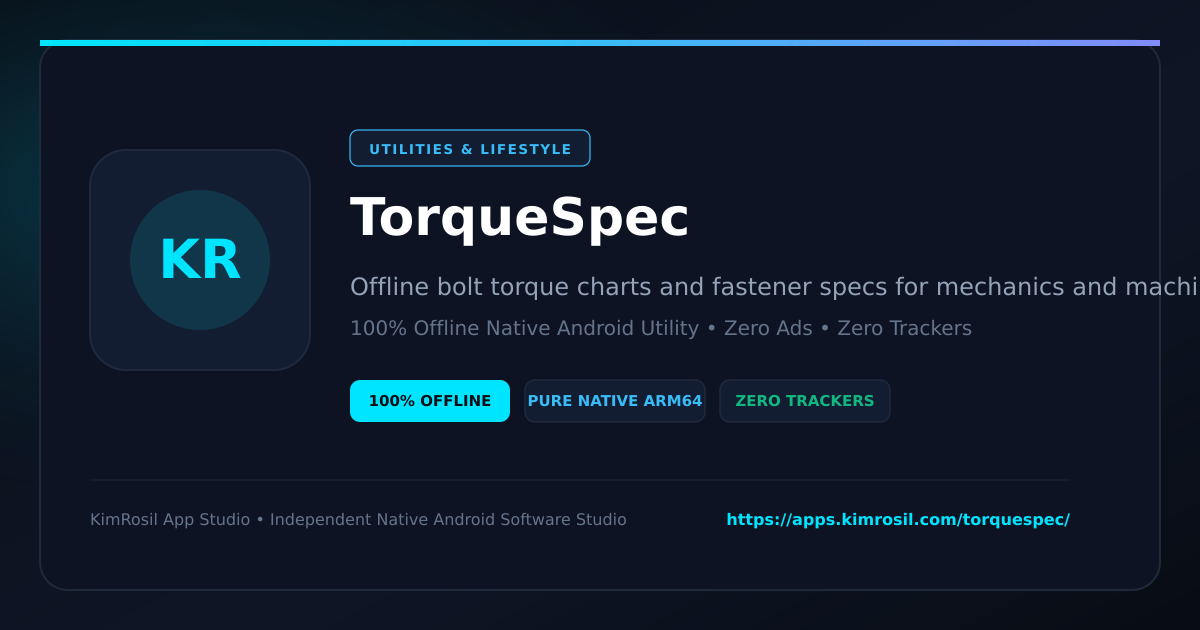
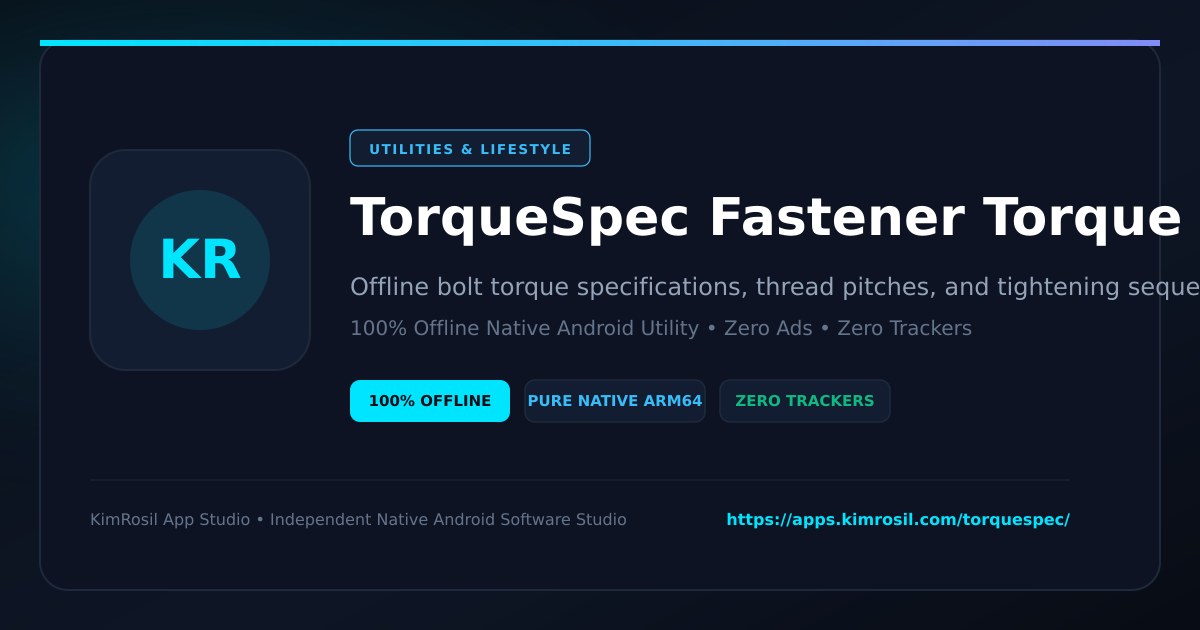
chore: Update Play Store listing & catalog for TorqueSpec Fastener Torque

Changed region(s): [[0.4625, 0.4222, 1.0, 0.4825], [0.5858, 0.3016, 0.9867, 0.3921]]

diff --git a/torquespec/index.html b/torquespec/index.html
@@ -3,11 +3,11 @@
 <head>
     <meta charset="UTF-8">
     <meta name="viewport" content="width=device-width, initial-scale=1.0, maximum-scale=5.0, viewport-fit=cover">
-    <title>TorqueSpec – Offline Android App | KimRosil Studio</title>
-    <meta name="description" content="Offline bolt torque charts and fastener specs for mechanics and machinists. Download the 100% offline, zero-tracking Android APK free from KimRosil App Studio.">
-    <meta name="keywords" content="TorqueSpec, offline android utility, open source android, privacy-first apk, KimRosil App Studio">
+    <title>TorqueSpec Fastener Torque – Offline Android App | KimRosil Studio</title>
+    <meta name="description" content="Offline bolt torque specifications, thread pitches, and tightening sequences. Download the 100% offline, zero-tracking Android APK free from KimRosil App Studio.">
+    <meta name="keywords" content="TorqueSpec Fastener Torque, offline android utility, open source android, privacy-first apk, KimRosil App Studio">
     <meta name="author" content="KimRosil App Studio">
-    <meta name="application-name" content="TorqueSpec">
+    <meta name="application-name" content="TorqueSpec Fastener Torque">
     <meta name="theme-color" content="#090D16">
     <meta name="robots" content="index, follow, max-image-preview:large, max-snippet:-1, max-video-preview:-1">
     <link rel="canonical" href="https://apps.kimrosil.com/torquespec/">
@@ -43,22 +43,22 @@
     <meta property="og:type" content="website">
     <meta property="og:url" content="https://apps.kimrosil.com/torquespec/">
     <meta property="og:site_name" content="KimRosil App Studio">
-    <meta property="og:title" content="TorqueSpec – Offline Android App | KimRosil Studio">
-    <meta property="og:description" content="Offline bolt torque charts and fastener specs for mechanics and machinists. Download the 100% offline, zero-tracking Android APK free from KimRosil App Studio.">
+    <meta property="og:title" content="TorqueSpec Fastener Torque – Offline Android App | KimRosil Studio">
+    <meta property="og:description" content="Offline bolt torque specifications, thread pitches, and tightening sequences. Download the 100% offline, zero-tracking Android APK free from KimRosil App Studio.">
     <meta property="og:image" content="https://apps.kimrosil.com/assets/banners/torquespec.png">
     <meta property="og:image:secure_url" content="https://apps.kimrosil.com/assets/banners/torquespec.png">
     <meta property="og:image:type" content="image/png">
     <meta property="og:image:width" content="1200">
     <meta property="og:image:height" content="630">
-    <meta property="og:image:alt" content="TorqueSpec Social Preview">
+    <meta property="og:image:alt" content="TorqueSpec Fastener Torque Social Preview">
 
     <!-- Twitter Card (Large Image) -->
     <meta name="twitter:card" content="summary_large_image">
     <meta name="twitter:url" content="https://apps.kimrosil.com/torquespec/">
-    <meta name="twitter:title" content="TorqueSpec – Offline Android App | KimRosil Studio">
-    <meta name="twitter:description" content="Offline bolt torque charts and fastener specs for mechanics and machinists. Download the 100% offline, zero-tracking Android APK free from KimRosil App Studio.">
+    <meta name="twitter:title" content="TorqueSpec Fastener Torque – Offline Android App | KimRosil Studio">
+    <meta name="twitter:description" content="Offline bolt torque specifications, thread pitches, and tightening sequences. Download the 100% offline, zero-tracking Android APK free from KimRosil App Studio.">
     <meta name="twitter:image" content="https://apps.kimrosil.com/assets/banners/torquespec.png">
-    <meta name="twitter:image:alt" content="TorqueSpec Social Preview">
+    <meta name="twitter:image:alt" content="TorqueSpec Fastener Torque Social Preview">
 
     <!-- Structured Data JSON-LD (SoftwareApplication, BreadcrumbList, FAQPage) -->
     <script type="application/ld+json">
@@ -66,7 +66,7 @@
     "@context": "https://schema.org",
     "@type": "SoftwareApplication",
     "@id": "https://apps.kimrosil.com/torquespec/#software",
-    "name": "TorqueSpec",
+    "name": "TorqueSpec Fastener Torque",
     "operatingSystem": "Android 7.0 and up (API 24+)",
     "applicationCategory": "LifestyleApplication",
     "inLanguage": "en",
@@ -76,7 +76,7 @@
         "priceCurrency": "USD",
         "availability": "https://schema.org/InStock"
     },
-    "description": "Offline bolt torque charts and fastener specs for mechanics and machinists.",
+    "description": "Offline bolt torque specifications, thread pitches, and tightening sequences.",
     "image": "https://apps.kimrosil.com/assets/icons/torquespec.png",
     "downloadUrl": "https://github.com/eliakimrosil/kimrosil-app-studio/releases/download/v1.1.0-torquespec/torquespec.apk",
     "softwareVersion": "1.1.0",
@@ -121,7 +121,7 @@
         {
             "@type": "ListItem",
             "position": 2,
-            "name": "TorqueSpec",
+            "name": "TorqueSpec Fastener Torque",
             "item": "https://apps.kimrosil.com/torquespec/"
         }
     ]
@@ -135,23 +135,23 @@
     "mainEntity": [
         {
             "@type": "Question",
-            "name": "Is TorqueSpec completely offline?",
+            "name": "Is TorqueSpec Fastener Torque completely offline?",
             "acceptedAnswer": {
                 "@type": "Answer",
-                "text": "Yes. TorqueSpec operates entirely locally on your Android device without requiring internet connectivity, external servers, or cloud synchronization."
+                "text": "Yes. TorqueSpec Fastener Torque operates entirely locally on your Android device without requiring internet connectivity, external servers, or cloud synchronization."
             }
         },
         {
             "@type": "Question",
-            "name": "Does TorqueSpec collect telemetry or display ads?",
+            "name": "Does TorqueSpec Fastener Torque collect telemetry or display ads?",
             "acceptedAnswer": {
                 "@type": "Answer",
-                "text": "No. TorqueSpec is built without tracking SDKs, advertising libraries, or telemetry frameworks. All calculation state and user logs stay strictly within on-device sandboxed storage."
+                "text": "No. TorqueSpec Fastener Torque is built without tracking SDKs, advertising libraries, or telemetry frameworks. All calculation state and user logs stay strictly within on-device sandboxed storage."
             }
         },
         {
             "@type": "Question",
-            "name": "How do I install TorqueSpec on Android?",
+            "name": "How do I install TorqueSpec Fastener Torque on Android?",
             "acceptedAnswer": {
                 "@type": "Answer",
                 "text": "You can download the APK binary directly from the official KimRosil App Studio GitHub Releases CDN (https://github.com/eliakimrosil/kimrosil-app-studio/releases/download/v1.1.0-torquespec/torquespec.apk) and open the file on your device to install."
@@ -583,16 +583,16 @@
             <span class="bc-sep">/</span>
             <span class="bc-current">Utilities & Lifestyle</span>
             <span class="bc-sep">/</span>
-            <span class="bc-current" aria-current="page">TorqueSpec</span>
+            <span class="bc-current" aria-current="page">TorqueSpec Fastener Torque</span>
         </nav>
 
         <header class="app-header">
             <div class="icon-frame">
-                <img src="../assets/icons/torquespec.svg" width="76" height="76" alt="TorqueSpec - 100% Offline Android App Icon" onerror="this.src='../assets/icon.svg'">
+                <img src="../assets/icons/torquespec.svg" width="76" height="76" alt="TorqueSpec Fastener Torque - 100% Offline Android App Icon" onerror="this.src='../assets/icon.svg'">
             </div>
             <div class="app-titles">
-                <h1>TorqueSpec</h1>
-                <p class="tagline">Offline bolt torque charts and fastener specs for mechanics and machinists.</p>
+                <h1>TorqueSpec Fastener Torque</h1>
+                <p class="tagline">Offline bolt torque specifications, thread pitches, and tightening sequences.</p>
             </div>
         </header>
 
@@ -614,42 +614,103 @@
         <section class="interactive-demo-card" id="web-demo">
             <div class="demo-top">
                 <span class="demo-tag">⚡ Live Browser Quick-Test</span>
-                <h2>Try TorqueSpec Online</h2>
+                <h2>Try TorqueSpec Fastener Torque Online</h2>
                 <p class="demo-sub">Test the core computation right in your browser before downloading the 100% offline native APK:</p>
             </div>
             
             <div class="demo-grid">
                 <div class="demo-field">
-                    <label for="demoValA">Specification Input A:</label>
-                    <input type="number" id="demoValA" class="demo-input" value="12" step="1" oninput="runGeneralCalc()">
+                    <label for="demoBoltSize">Fastener Size:</label>
+                    <select id="demoBoltSize" class="demo-select" onchange="runTorqueCalc()">
+                        <option value="6,1.0,20.1">M6 x 1.0 (10mm Hex)</option>
+                        <option value="8,1.25,36.6">M8 x 1.25 (13mm Hex)</option>
+                        <option value="10,1.5,58.0" selected>M10 x 1.5 (17mm Hex)</option>
+                        <option value="12,1.75,84.3">M12 x 1.75 (19mm Hex)</option>
+                        <option value="14,2.0,115.0">M14 x 2.0 (22mm Hex)</option>
+                        <option value="16,2.0,157.0">M16 x 2.0 (24mm Hex)</option>
+                        <option value="9.525,1.5875,50.0">3/8"-16 UNC (9/16" Hex)</option>
+                        <option value="12.7,1.954,91.5">1/2"-13 UNC (3/4" Hex)</option>
+                    </select>
                 </div>
                 <div class="demo-field">
-                    <label for="demoValB">Specification Input B:</label>
-                    <input type="number" id="demoValB" class="demo-input" value="1.5" step="0.1" oninput="runGeneralCalc()">
+                    <label for="demoBoltGrade">Strength Grade:</label>
+                    <select id="demoBoltGrade" class="demo-select" onchange="runTorqueCalc()">
+                        <option value="600" selected>Metric Class 8.8 (600 MPa)</option>
+                        <option value="830">Metric Class 10.9 (830 MPa)</option>
+                        <option value="970">Metric Class 12.9 (970 MPa)</option>
+                        <option value="450">Stainless A2-70 (450 MPa)</option>
+                        <option value="586">SAE Grade 5 (85,000 PSI)</option>
+                        <option value="827">SAE Grade 8 (120,000 PSI)</option>
+                    </select>
+                </div>
+                <div class="demo-field">
+                    <label for="demoLubeState">Thread State / Lube:</label>
+                    <select id="demoLubeState" class="demo-select" onchange="runTorqueCalc()">
+                        <option value="0.15" selected>Light Engine Oil (K = 0.15)</option>
+                        <option value="0.20">Dry Bare Steel (K = 0.20)</option>
+                        <option value="0.12">Anti-Seize / Copper (K = 0.12)</option>
+                        <option value="0.16">Loctite Threadlocker (K = 0.16)</option>
+                        <option value="0.22">Zinc Plated Dry (K = 0.22)</option>
+                    </select>
+                </div>
+                <div class="demo-field">
+                    <label for="demoPreloadPct">Proof Load Target:</label>
+                    <select id="demoPreloadPct" class="demo-select" onchange="runTorqueCalc()">
+                        <option value="0.65">65% (Light / Gasket)</option>
+                        <option value="0.75" selected>75% (Standard Preload)</option>
+                        <option value="0.90">90% (Maximum Proof)</option>
+                    </select>
                 </div>
             </div>
             <div class="demo-results-panel">
-                <div class="result-tile"><span class="rt-label">Target Ratio / Metric</span><span class="rt-val" id="resRatio">8.00x</span></div>
-                <div class="result-tile primary-tile"><span class="rt-label">Calculated Telemetry Output</span><span class="rt-val" id="resGeneral">18.00 units</span></div>
+                <div class="result-tile primary-tile"><span class="rt-label">Tightening Torque</span><span class="rt-val" id="resTorqueNm">85.4 N·m</span></div>
+                <div class="result-tile"><span class="rt-label">Imperial Equivalent</span><span class="rt-val" id="resTorqueFtLb">63.0 ft-lb</span></div>
+                <div class="result-tile"><span class="rt-label">Clamp Preload Force</span><span class="rt-val" id="resClampKn">26.1 kN</span></div>
+                <div class="result-tile"><span class="rt-label">Clamp Tension (lbf)</span><span class="rt-val" id="resClampLbf">5,867 lbf</span></div>
             </div>
             <div class="demo-actions">
-                <button type="button" class="btn-demo-action" onclick="copyGeneralSummary()">📋 Copy Telemetry Spec</button>
+                <button type="button" class="btn-demo-action" onclick="copyTorqueSummary()">📋 Copy Torque Specification</button>
             </div>
             <script>
-            function runGeneralCalc() {
-                const a = parseFloat(document.getElementById('demoValA').value) || 0;
-                const b = parseFloat(document.getElementById('demoValB').value) || 1;
-                document.getElementById('resRatio').innerText = (a / (b || 1)).toFixed(2) + 'x';
-                document.getElementById('resGeneral').innerText = (a * b).toFixed(2) + ' units';
+            function runTorqueCalc() {
+                const raw = document.getElementById('demoBoltSize').value;
+                const parts = raw.split(',').map(parseFloat);
+                const dMm = parts[0], pitchMm = parts[1], atMm2 = parts[2];
+                const spMpa = parseFloat(document.getElementById('demoBoltGrade').value) || 600;
+                const kFactor = parseFloat(document.getElementById('demoLubeState').value) || 0.15;
+                const preload = parseFloat(document.getElementById('demoPreloadPct').value) || 0.75;
+                
+                const clampForceN = preload * atMm2 * spMpa;
+                const clampKn = clampForceN / 1000.0;
+                const clampLbf = clampKn * 224.809;
+                
+                const torqueNm = kFactor * (dMm / 1000.0) * clampForceN;
+                const torqueFtLb = torqueNm * 0.737562;
+                
+                document.getElementById('resTorqueNm').innerText = torqueNm.toFixed(1) + ' N·m';
+                document.getElementById('resTorqueFtLb').innerText = torqueFtLb.toFixed(1) + ' ft-lb';
+                document.getElementById('resClampKn').innerText = clampKn.toFixed(1) + ' kN';
+                document.getElementById('resClampLbf').innerText = Math.round(clampLbf).toLocaleString() + ' lbf';
             }
-            function copyGeneralSummary() {
-                const txt = `--- TorqueSpec Telemetry ---\n` +
-                    `Ratio: ${document.getElementById('resRatio').innerText}\n` +
-                    `Output: ${document.getElementById('resGeneral').innerText}\n` +
-                    `[Computed via TorqueSpec • https://apps.kimrosil.com/torquespec/]`;
-                navigator.clipboard.writeText(txt).then(() => alert('Specification copied to clipboard!'));
+            function copyTorqueSummary() {
+                const sizeName = document.getElementById('demoBoltSize').selectedOptions[0].text;
+                const gradeName = document.getElementById('demoBoltGrade').selectedOptions[0].text;
+                const tNm = document.getElementById('resTorqueNm').innerText;
+                const tFt = document.getElementById('resTorqueFtLb').innerText;
+                const cKn = document.getElementById('resClampKn').innerText;
+                const cLb = document.getElementById('resClampLbf').innerText;
+                const txt = '--- TorqueSpec Telemetry ---
+' +
+                    'Fastener: ' + sizeName + ' • ' + gradeName + '
+' +
+                    'Torque: ' + tNm + ' (' + tFt + ')
+' +
+                    'Clamp Force: ' + cKn + ' (' + cLb + ')
+' +
+                    '[Computed via TorqueSpec • https://apps.kimrosil.com/torquespec/]';
+                navigator.clipboard.writeText(txt).then(() => alert('Torque specification copied!'));
             }
-            window.addEventListener('DOMContentLoaded', runGeneralCalc);
+            window.addEventListener('DOMContentLoaded', runTorqueCalc);
             </script>
             <div class="demo-cta-strip">
                 <div class="demo-cta-text">
@@ -664,7 +725,7 @@
 
         <section class="content-section">
             <h2>Overview &amp; Core Capabilities</h2>
-            <div class="desc"><p>TorqueSpec delivers instant, offline bolt torque specifications and fastener engineering data directly to your device. Built specifically for field service technicians, diesel mechanics, fabricators, and machinists working in low-connectivity environments such as pole barns, pits, and remote machine shops. Eliminate guesswork and damaged threads with immediate access to standard tightening values, thread pitches, tensile ratings, and fastener dimensions without requiring cellular reception or account sign-ins. Core Features: - Comprehensive Torque Tables: Standard tightening values for Metric (Class 8.8, 10.9, 12.9) and Imperial SAE (Grade 2, 5, 8) fasteners across dry and lubricated conditions. - Fast Offline Search: Instant query engine powered by local database indexing allows you to locate thread specs and bolt diameters in milliseconds. - Mechanical Specifications: Detailed data on coarse and fine thread pitches, tap drill sizes, proof load limits, and recommended clamping force. - Zero Connectivity Required: Fully self-contained local database functions seamlessly underground, inside metal facilities, or in remote job sites. - Clean Workshop Interface: High-contrast layout designed for quick reading and single-tap reference while wearing shop gloves. - Complete Privacy: No user tracking, no third-party analytics, and no background network connections. Whether torquing cylinder heads, servicing agricultural machinery, or assembling structural steel, TorqueSpec provides reliable mechanical reference data instantly on the shop floor.</p><p><br>Data Safety & Offline Privacy Guarantee:<br>- 100% Offline: This application operates entirely on your device without requiring an active internet connection.<br>- Zero Data Collection: We do not collect, monitor, track, store, or transmit any personal identifiable information (PII), device identifiers, or usage telemetry.<br>- No Accounts or Subscriptions: Enjoy complete utility with zero account creation, logins, or hidden recurring fees.<br>- Local Storage Only: All items, history, and preferences are retained strictly within on-device sandboxed storage.</p><p><br>Notice of Non-Affiliation: All product and company names, logos, and brands mentioned are trademarks™ or registered® trademarks of their respective holders. Use of them does not imply any affiliation with or endorsement by them.</p></div>
+            <div class="desc"><p>TorqueSpec provides instant bolt tightening specifications, thread pitch references, and fastener torque calculation tables for automotive technicians, heavy diesel mechanics, machinists, and fabricators. Built for harsh field environments, metal pole barns, basements, and job sites without cell reception, TorqueSpec runs entirely offline with zero network requests, zero accounts, and zero intrusive ads. Access critical mechanical values immediately without handling delicate account sign-ins while wearing greasy shop gloves. Key Features: • Comprehensive Torque Tables: Rapidly look up recommended tightening values across standard SAE (Grade 2, 5, 8) and Metric (Class 4.6, 8.8, 10.9, 12.9) fasteners. • Thread and Pitch Reference: Cross-reference coarse, fine, and extra-fine thread pitches alongside recommended drill tap sizes. • Lubrication Adjustments: Calculate dry versus lubricated (oil, anti-seize, threadlocker) torque reductions to prevent thread galling and fastener shear. • Full-Text Offline Search: Powered by built-in SQLite FTS5 for sub-millisecond lookups of bolt diameters, grades, and material standards. • Unit Conversions: Toggle between foot-pounds (ft-lb), inch-pounds (in-lb), and Newton-meters (Nm) with one tap. • Sequence Diagrams: Reference standard circular and crisscross torquing patterns for cylinder heads, wheel hubs, and pipe flanges. Designed for speed, durability, and complete operational independence on the shop floor.</p><p><br>Data Safety & Offline Privacy Guarantee:<br>- 100% Offline: This application operates entirely on your device without requiring an active internet connection.<br>- Zero Data Collection: We do not collect, monitor, track, store, or transmit any personal identifiable information (PII), device identifiers, or usage telemetry.<br>- No Accounts or Subscriptions: Enjoy complete utility with zero account creation, logins, or hidden recurring fees.<br>- Local Storage Only: All items, history, and preferences are retained strictly within on-device sandboxed storage.</p><p><br>Notice of Non-Affiliation: All product and company names, logos, and brands mentioned are trademarks™ or registered® trademarks of their respective holders. Use of them does not imply any affiliation with or endorsement by them.</p></div>
         </section>
 
         <section class="tech-specs-card">
@@ -682,8 +743,8 @@
         <section class="app-faq-card">
             <h2>Frequently Asked Questions</h2>
             <details class="faq-accordion" open>
-                <summary>Is TorqueSpec completely offline?</summary>
-                <p>Yes. TorqueSpec operates entirely locally on your Android device without requiring internet connectivity or external server calls.</p>
+                <summary>Is TorqueSpec Fastener Torque completely offline?</summary>
+                <p>Yes. TorqueSpec Fastener Torque operates entirely locally on your Android device without requiring internet connectivity or external server calls.</p>
             </details>
             <details class="faq-accordion">
                 <summary>Does this utility collect any telemetry or personal data?</summary>

diff --git a/torquespec/privacy.html b/torquespec/privacy.html
@@ -3,8 +3,8 @@
 <head>
     <meta charset="UTF-8">
     <meta name="viewport" content="width=device-width, initial-scale=1.0, maximum-scale=5.0, viewport-fit=cover">
-    <title>Privacy Policy - TorqueSpec | KimRosil App Studio</title>
-    <meta name="description" content="Privacy policy and zero-telemetry data safety declaration for TorqueSpec. 100% offline, zero data collection.">
+    <title>Privacy Policy - TorqueSpec Fastener Torque | KimRosil App Studio</title>
+    <meta name="description" content="Privacy policy and zero-telemetry data safety declaration for TorqueSpec Fastener Torque. 100% offline, zero data collection.">
     <meta name="robots" content="index, follow">
     <link rel="canonical" href="https://apps.kimrosil.com/torquespec/privacy.html">
     <link rel="icon" type="image/svg+xml" href="https://apps.kimrosil.com/favicon.svg">
@@ -39,8 +39,8 @@
     <meta property="og:type" content="article">
     <meta property="og:url" content="https://apps.kimrosil.com/torquespec/privacy.html">
     <meta property="og:site_name" content="KimRosil App Studio">
-    <meta property="og:title" content="Privacy Policy - TorqueSpec">
-    <meta property="og:description" content="100% offline, zero data collection privacy policy for TorqueSpec.">
+    <meta property="og:title" content="Privacy Policy - TorqueSpec Fastener Torque">
+    <meta property="og:description" content="100% offline, zero data collection privacy policy for TorqueSpec Fastener Torque.">
     <meta property="og:image" content="https://apps.kimrosil.com/assets/icons/torquespec.png">
 
     <style>
@@ -112,12 +112,12 @@
     <div class="container">
         <span class="badge">✓ Google Play Data Safety Certified</span>
         <h1>Privacy Policy</h1>
-        <p><strong>TorqueSpec</strong></p>
+        <p><strong>TorqueSpec Fastener Torque</strong></p>
         <p><em>Effective Date: October 2, 2026 &bull; Developer: Eliakim Rosil</em></p>
         <hr>
-        <h1>Privacy Policy for TorqueSpec</h1>
+        <h1>Privacy Policy for TorqueSpec Fastener Torque</h1>
 <p><em>Last Updated: October 2026</em></p>
-<p>This privacy policy applies to the Android mobile application <strong>TorqueSpec</strong> (the "Application"), developed and published by Eliakim Rosil ("we", "us", or "our") under the KimRosil App Studio developer portfolio (https://apps.kimrosil.com).</p>
+<p>This privacy policy applies to the Android mobile application <strong>TorqueSpec Fastener Torque</strong> (the "Application"), developed and published by Eliakim Rosil ("we", "us", or "our") under the KimRosil App Studio developer portfolio (https://apps.kimrosil.com).</p>
 <p>The Application is distributed via the Google Play Store, official APK releases, and https://apps.kimrosil.com/torquespec/.</p>
 <hr>
 <h3>1. 100% Offline-First Architecture & Sandboxed Local Storage</h3>
@@ -126,7 +126,7 @@
 <li><strong>Zero Personal Information:</strong> We do NOT collect, harvest, store, or transmit personal identity details (such as names, email addresses, phone numbers, contacts, device identifiers, or location data) to any proprietary developer servers or external third parties.</li>
 <li><strong>Sandboxed Local Storage:</strong> Any user preferences, search parameters, or custom inputs are stored strictly on your local device within Android's sandboxed storage (`SharedPreferences`, Room, or local SQLite database). Your personal application records never leave your physical device.</li>
 <li><strong>Zero Internet Requirement:</strong> The Application operates entirely on-device and makes zero outbound network requests.</li>
-<li><strong>Data Deletion:</strong> Uninstalling the Application or clearing its storage via Android Settings (`Settings > Apps > TorqueSpec > Storage > Clear Data`) permanently and irreversibly deletes all locally saved records.</li>
+<li><strong>Data Deletion:</strong> Uninstalling the Application or clearing its storage via Android Settings (`Settings > Apps > TorqueSpec Fastener Torque > Storage > Clear Data`) permanently and irreversibly deletes all locally saved records.</li>
 </ul>
 <h3>2. Zero Advertising & Zero Third-Party SDKs</h3>
 <p>The Application is 100% freeware:</p>
@@ -159,7 +159,7 @@
 <li><strong>Project Repository:</strong> https://github.com/eliakimrosil/kimrosil-app-studio</li>
 </ul>
         <div class="nav-back">
-            <a href="./">← Return to TorqueSpec App Overview</a>
+            <a href="./">← Return to TorqueSpec Fastener Torque App Overview</a>
             <a href="../privacy.html">Master Developer Privacy Policy →</a>
         </div>
     </div>

diff --git a/testers.html b/testers.html
@@ -529,7 +529,7 @@
             <p class="tagline">Offline fastener torque calculator, thread pitch verifier, and lubricant friction adjuster for mechanics and machinists.</p>
             <div class="btn-row">
                 <a class="btn btn-optin" href="https://play.google.com/apps/testing/com.kimrosil.torquespec" target="_blank" rel="noopener">🧪 Opt-in on Google Play</a>
-                <a class="btn btn-sec" href="https://github.com/eliakimrosil/kimrosil-app-studio/releases/download/v1.0.0-torquespec/torquespec.apk">⬇ Direct APK</a>
+                <a class="btn btn-sec" href="https://github.com/eliakimrosil/kimrosil-app-studio/releases/download/v1.1.0-torquespec/torquespec.apk">⬇ Direct APK</a>
                 <a class="btn btn-sec" href="torquespec/">Details</a>
                 <a class="btn btn-sec" href="torquespec/privacy.html">Privacy</a>
             </div>

diff --git a/index.html b/index.html
@@ -143,7 +143,7 @@
                     "description": "Offline fastener torque calculator, thread pitch verifier, and lubricant friction adjuster for mechanics and machinists.",
                     "applicationCategory": "Automotive & Mechanical Trades",
                     "operatingSystem": "Android 7.0+",
-                    "downloadUrl": "https://github.com/eliakimrosil/kimrosil-app-studio/releases/download/v1.0.0-torquespec/torquespec.apk",
+                    "downloadUrl": "https://github.com/eliakimrosil/kimrosil-app-studio/releases/download/v1.1.0-torquespec/torquespec.apk",
                     "offers": {
                         "@type": "Offer",
                         "price": "0",
